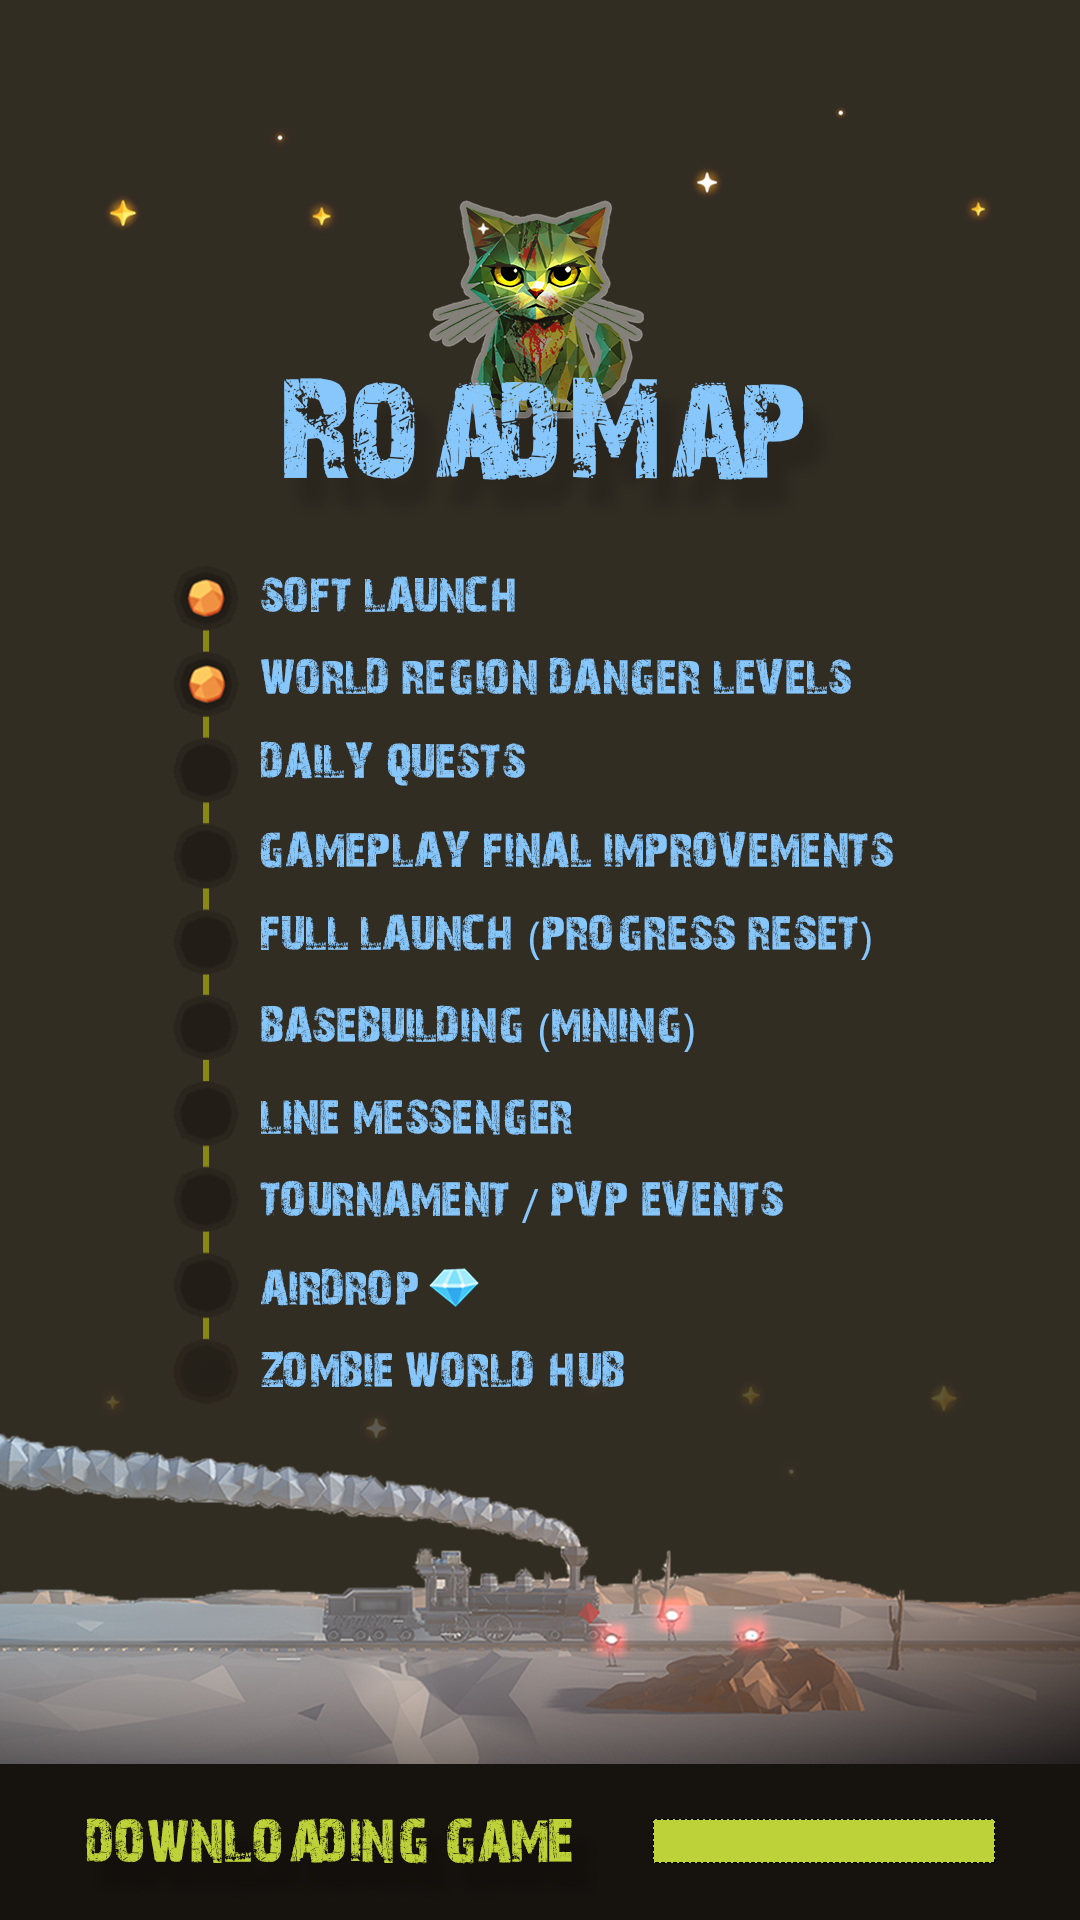
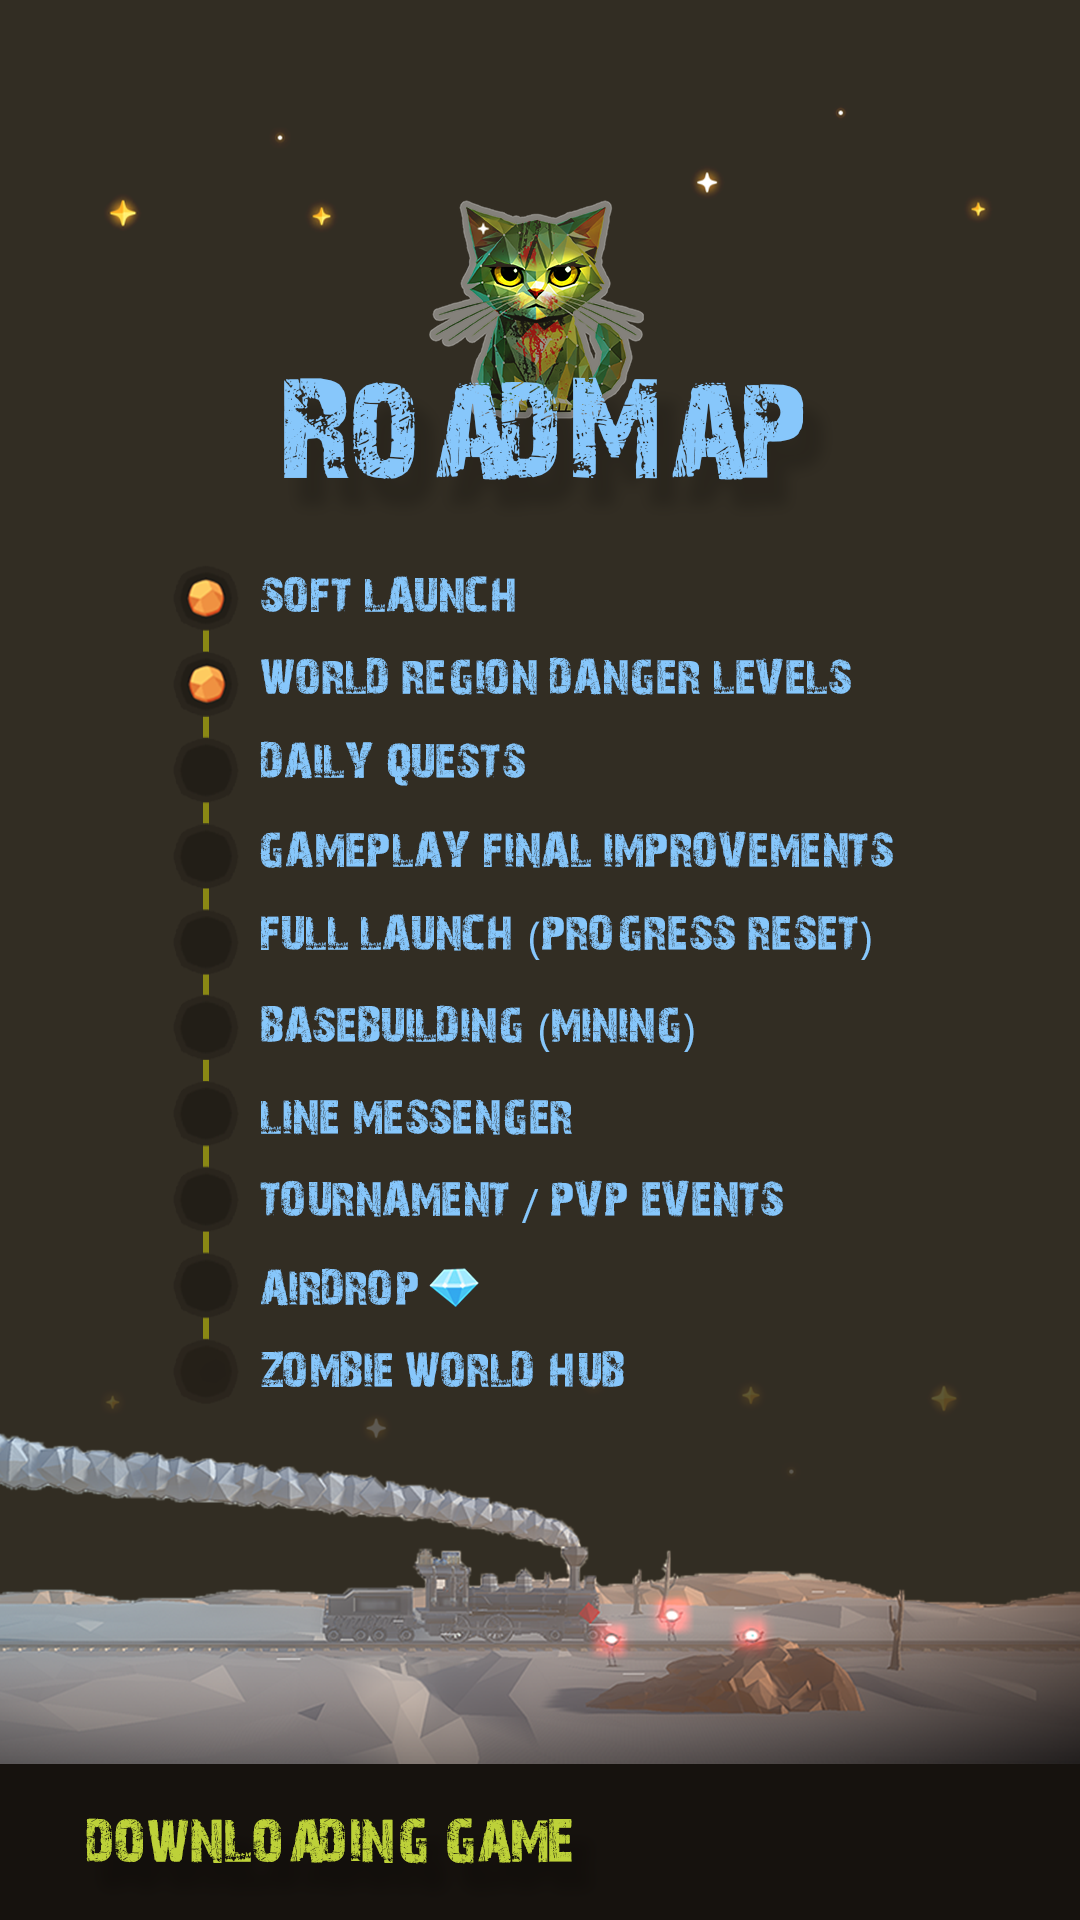
loading bar

Changed region(s): [[0.5806, 0.9375, 0.9167, 0.9688]]

diff --git a/TemplateData/style.css b/TemplateData/style.css
@@ -4,7 +4,13 @@ body { padding: 0; margin: 0 }
 #unity-container.unity-mobile { position: fixed; width: 100%; height: 100% }
 #unity-canvas { background-image: url('RoadMap.png'); background-size: cover; background-position: center; background-repeat: no-repeat; width: 100%;}
 .unity-mobile #unity-canvas { width: 100%; height: 100% }
-#unity-loading-bar { position: absolute; left: 50%; top: 50%; transform: translate(-50%, -50%); display: none }
+#unity-loading-bar {
+    position: absolute;
+    bottom: 50px; /* 50px from the bottom */
+    right: 50px;  /* 50px from the right */
+    display: none;
+    transform: none; /* Remove the center positioning transform */
+}
 #unity-logo { width: 154px; height: 130px;  }
 #unity-progress-bar-empty { width: 141px; height: 18px; margin-top: 10px; margin-left: 6.5px; background: url('progress-bar-empty-dark.png') no-repeat center }
 #unity-progress-bar-full { width: 0%; height: 18px; margin-top: 10px; background: url('progress-bar-full-dark.png') no-repeat center }
@@ -14,19 +20,3 @@ body { padding: 0; margin: 0 }
 #unity-build-title { float: right; margin-right: 10px; line-height: 38px; font-family: arial; font-size: 18px }
 #unity-fullscreen-button { cursor:pointer; float: right; width: 38px; height: 38px; background: url('fullscreen-button.png') no-repeat center }
 #unity-warning { position: absolute; left: 50%; top: 5%; transform: translate(-50%); background: white; padding: 10px; display: none }
-/*
-
-background: #231F20
-#unity-container {
-        position: relative;
-        background-image: url('RoadMap.png'); /* Replace with your image path */
-        background-size: cover; /* Ensures the image covers the entire container */
-        background-position: center; /* Centers the image */
-        background-repeat: no-repeat; /* Prevents tiling */
-        width: 100%;
-        height: 100%;
-        display: flex;
-        align-items: center;
-        justify-content: center
-    }
-*/
